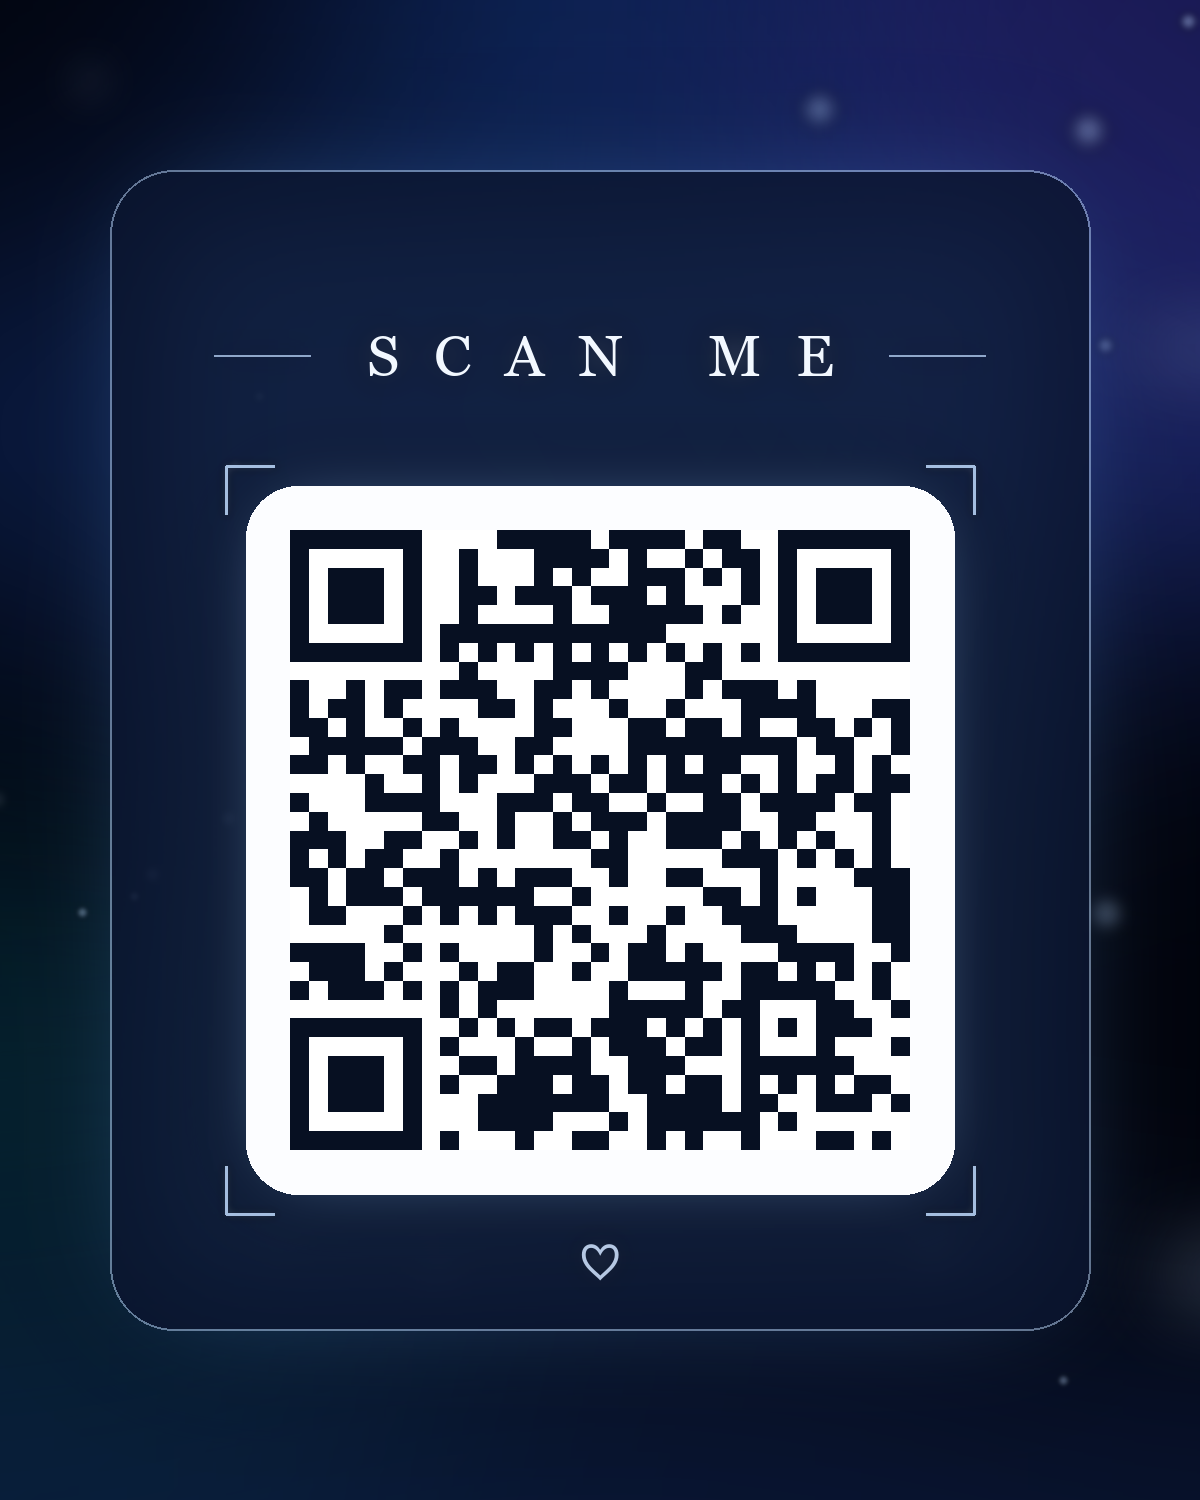
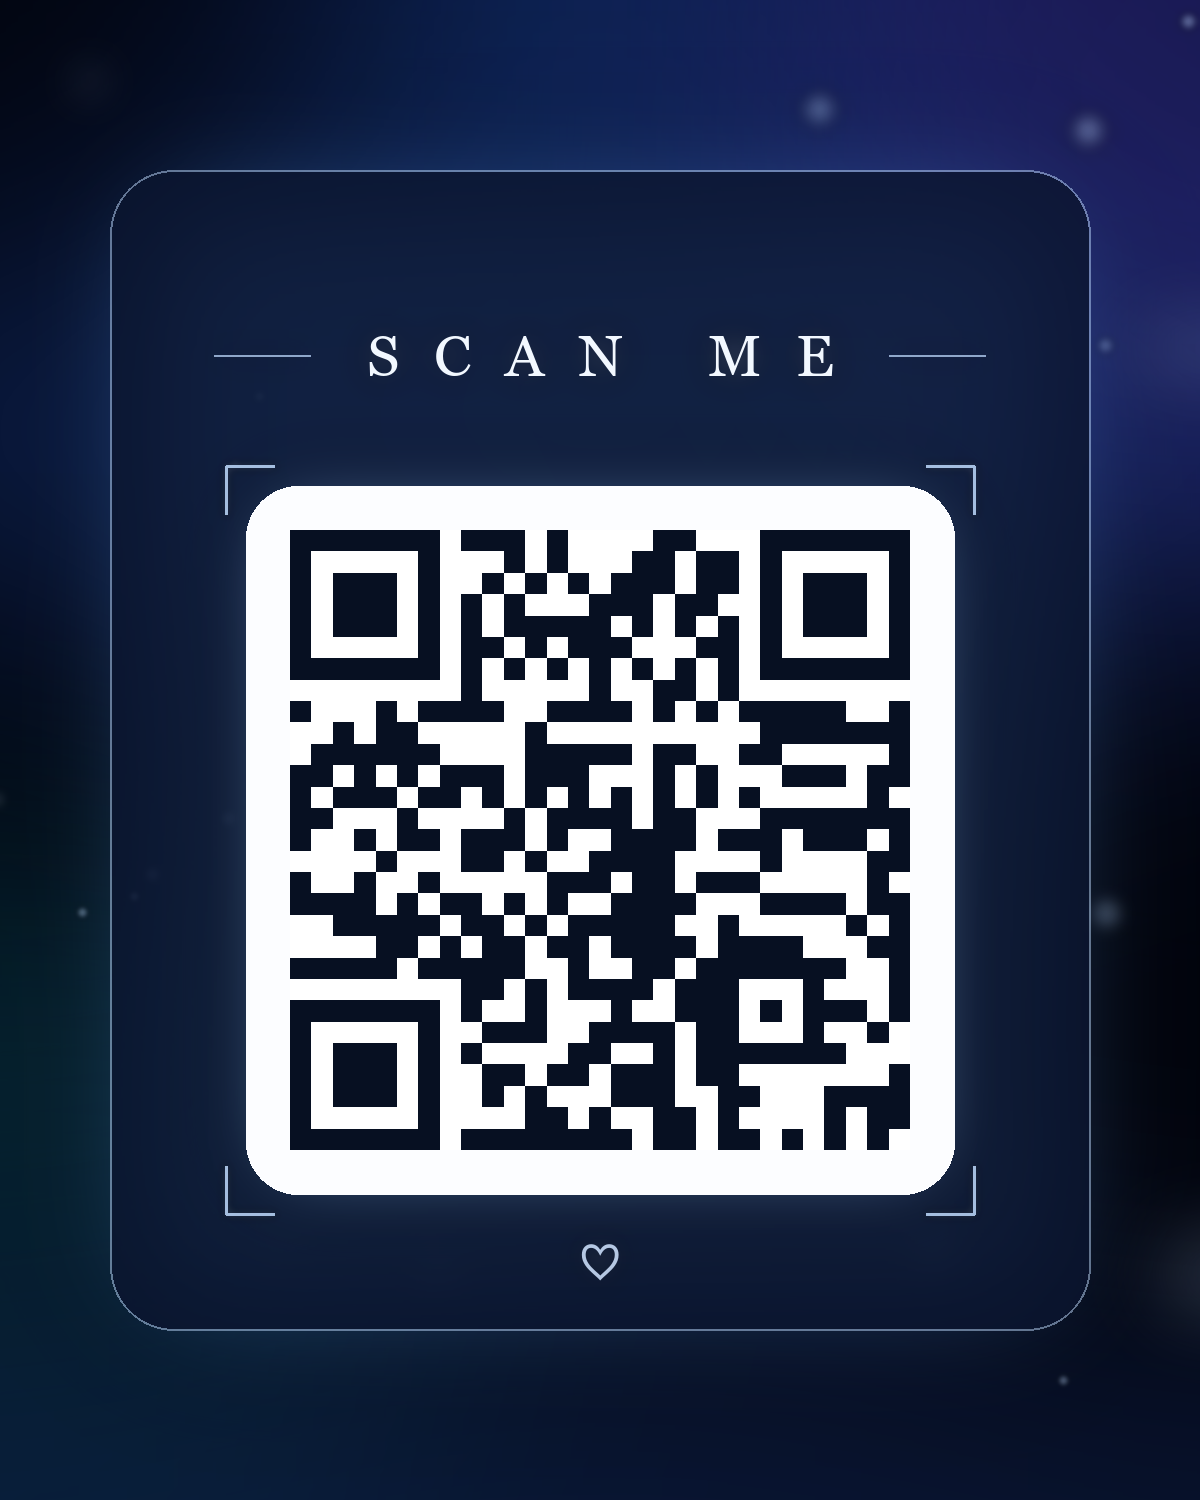
Point everything at the Netlify URL
The site now lives at https://magical-heart.netlify.app/ (GitHub Pages stays up
as a mirror). tools_qr_card.py becomes tools_qr.py and regenerates the whole set
from one URL constant: the plain QR, the printable card, and the QR embedded in
share.html together with the card's link.

Changed region(s): [[0.2158, 0.3373, 0.7708, 0.7667]]

diff --git a/share.html b/share.html
@@ -231,7 +231,7 @@
     <span class="orb" style="--s:22px;--x:19%;--y:57%;--o:0.40;--dur:12.6s;--delay:-5.0s;--dx:5px"></span>
     <span class="orb" style="--s:44px;--x:31%;--y:21%;--o:0.13;--dur:11.0s;--delay:-7.9s;--dx:-39px"></span>
 
-  <a class="card" href="https://frankjakrapan.github.io/magical-heart/">
+  <a class="card" href="https://magical-heart.netlify.app/">
     <h1 class="title">Scan me</h1>
 
     <div class="qr">
@@ -239,8 +239,8 @@
       <span class="corner tr"></span>
       <span class="corner bl"></span>
       <span class="corner br"></span>
-      <svg viewBox="0 0 37 37" xmlns="http://www.w3.org/2000/svg" shape-rendering="crispEdges">
-        <path d="M2,2H3V3H2zM3,2H4V3H3zM4,2H5V3H4zM5,2H6V3H5zM6,2H7V3H6zM7,2H8V3H7zM8,2H9V3H8zM13,2H14V3H13zM14,2H15V3H14zM15,2H16V3H15zM16,2H17V3H16zM17,2H18V3H17zM19,2H20V3H19zM20,2H21V3H20zM21,2H22V3H21zM22,2H23V3H22zM24,2H25V3H24zM25,2H26V3H25zM28,2H29V3H28zM29,2H30V3H29zM30,2H31V3H30zM31,2H32V3H31zM32,2H33V3H32zM33,2H34V3H33zM34,2H35V3H34zM2,3H3V4H2zM8,3H9V4H8zM11,3H12V4H11zM15,3H16V4H15zM16,3H17V4H16zM17,3H18V4H17zM18,3H19V4H18zM20,3H21V4H20zM23,3H24V4H23zM25,3H26V4H25zM26,3H27V4H26zM28,3H29V4H28zM34,3H35V4H34zM2,4H3V5H2zM4,4H5V5H4zM5,4H6V5H5zM6,4H7V5H6zM8,4H9V5H8zM11,4H12V5H11zM15,4H16V5H15zM17,4H18V5H17zM20,4H21V5H20zM21,4H22V5H21zM22,4H23V5H22zM24,4H25V5H24zM26,4H27V5H26zM28,4H29V5H28zM30,4H31V5H30zM31,4H32V5H31zM32,4H33V5H32zM34,4H35V5H34zM2,5H3V6H2zM4,5H5V6H4zM5,5H6V6H5zM6,5H7V6H6zM8,5H9V6H8zM11,5H12V6H11zM12,5H13V6H12zM14,5H15V6H14zM15,5H16V6H15zM16,5H17V6H16zM18,5H19V6H18zM19,5H20V6H19zM20,5H21V6H20zM22,5H23V6H22zM26,5H27V6H26zM28,5H29V6H28zM30,5H31V6H30zM31,5H32V6H31zM32,5H33V6H32zM34,5H35V6H34zM2,6H3V7H2zM4,6H5V7H4zM5,6H6V7H5zM6,6H7V7H6zM8,6H9V7H8zM11,6H12V7H11zM16,6H17V7H16zM19,6H20V7H19zM20,6H21V7H20zM21,6H22V7H21zM22,6H23V7H22zM23,6H24V7H23zM25,6H26V7H25zM28,6H29V7H28zM30,6H31V7H30zM31,6H32V7H31zM32,6H33V7H32zM34,6H35V7H34zM2,7H3V8H2zM8,7H9V8H8zM10,7H11V8H10zM11,7H12V8H11zM12,7H13V8H12zM13,7H14V8H13zM14,7H15V8H14zM15,7H16V8H15zM16,7H17V8H16zM17,7H18V8H17zM18,7H19V8H18zM19,7H20V8H19zM20,7H21V8H20zM21,7H22V8H21zM28,7H29V8H28zM34,7H35V8H34zM2,8H3V9H2zM3,8H4V9H3zM4,8H5V9H4zM5,8H6V9H5zM6,8H7V9H6zM7,8H8V9H7zM8,8H9V9H8zM10,8H11V9H10zM12,8H13V9H12zM14,8H15V9H14zM16,8H17V9H16zM18,8H19V9H18zM20,8H21V9H20zM22,8H23V9H22zM24,8H25V9H24zM26,8H27V9H26zM28,8H29V9H28zM29,8H30V9H29zM30,8H31V9H30zM31,8H32V9H31zM32,8H33V9H32zM33,8H34V9H33zM34,8H35V9H34zM11,9H12V10H11zM16,9H17V10H16zM17,9H18V10H17zM18,9H19V10H18zM19,9H20V10H19zM23,9H24V10H23zM24,9H25V10H24zM2,10H3V11H2zM5,10H6V11H5zM7,10H8V11H7zM8,10H9V11H8zM10,10H11V11H10zM11,10H12V11H11zM12,10H13V11H12zM15,10H16V11H15zM16,10H17V11H16zM18,10H19V11H18zM23,10H24V11H23zM25,10H26V11H25zM26,10H27V11H26zM27,10H28V11H27zM29,10H30V11H29zM2,11H3V12H2zM4,11H5V12H4zM5,11H6V12H5zM7,11H8V12H7zM12,11H13V12H12zM13,11H14V12H13zM15,11H16V12H15zM19,11H20V12H19zM22,11H23V12H22zM26,11H27V12H26zM27,11H28V12H27zM28,11H29V12H28zM29,11H30V12H29zM33,11H34V12H33zM34,11H35V12H34zM2,12H3V13H2zM3,12H4V13H3zM5,12H6V13H5zM8,12H9V13H8zM10,12H11V13H10zM15,12H16V13H15zM16,12H17V13H16zM20,12H21V13H20zM21,12H22V13H21zM23,12H24V13H23zM24,12H25V13H24zM26,12H27V13H26zM29,12H30V13H29zM30,12H31V13H30zM32,12H33V13H32zM34,12H35V13H34zM3,13H4V14H3zM4,13H5V14H4zM5,13H6V14H5zM6,13H7V14H6zM7,13H8V14H7zM9,13H10V14H9zM10,13H11V14H10zM11,13H12V14H11zM14,13H15V14H14zM15,13H16V14H15zM20,13H21V14H20zM21,13H22V14H21zM22,13H23V14H22zM23,13H24V14H23zM24,13H25V14H24zM25,13H26V14H25zM26,13H27V14H26zM27,13H28V14H27zM28,13H29V14H28zM30,13H31V14H30zM31,13H32V14H31zM34,13H35V14H34zM2,14H3V15H2zM3,14H4V15H3zM5,14H6V15H5zM8,14H9V15H8zM9,14H10V15H9zM11,14H12V15H11zM12,14H13V15H12zM14,14H15V15H14zM16,14H17V15H16zM18,14H19V15H18zM20,14H21V15H20zM22,14H23V15H22zM24,14H25V15H24zM25,14H26V15H25zM28,14H29V15H28zM31,14H32V15H31zM33,14H34V15H33zM6,15H7V16H6zM9,15H10V16H9zM11,15H12V16H11zM15,15H16V16H15zM16,15H17V16H16zM17,15H18V16H17zM19,15H20V16H19zM20,15H21V16H20zM22,15H23V16H22zM23,15H24V16H23zM24,15H25V16H24zM26,15H27V16H26zM28,15H29V16H28zM30,15H31V16H30zM31,15H32V16H31zM33,15H34V16H33zM34,15H35V16H34zM2,16H3V17H2zM6,16H7V17H6zM7,16H8V17H7zM8,16H9V17H8zM9,16H10V17H9zM13,16H14V17H13zM14,16H15V17H14zM15,16H16V17H15zM17,16H18V17H17zM18,16H19V17H18zM21,16H22V17H21zM24,16H25V17H24zM25,16H26V17H25zM27,16H28V17H27zM28,16H29V17H28zM29,16H30V17H29zM30,16H31V17H30zM32,16H33V17H32zM33,16H34V17H33zM3,17H4V18H3zM9,17H10V18H9zM10,17H11V18H10zM13,17H14V18H13zM16,17H17V18H16zM18,17H19V18H18zM19,17H20V18H19zM20,17H21V18H20zM22,17H23V18H22zM23,17H24V18H23zM24,17H25V18H24zM25,17H26V18H25zM28,17H29V18H28zM29,17H30V18H29zM33,17H34V18H33zM2,18H3V19H2zM3,18H4V19H3zM4,18H5V19H4zM7,18H8V19H7zM8,18H9V19H8zM11,18H12V19H11zM13,18H14V19H13zM16,18H17V19H16zM17,18H18V19H17zM19,18H20V19H19zM22,18H23V19H22zM23,18H24V19H23zM24,18H25V19H24zM26,18H27V19H26zM28,18H29V19H28zM30,18H31V19H30zM33,18H34V19H33zM2,19H3V20H2zM4,19H5V20H4zM6,19H7V20H6zM7,19H8V20H7zM10,19H11V20H10zM18,19H19V20H18zM19,19H20V20H19zM25,19H26V20H25zM26,19H27V20H26zM27,19H28V20H27zM29,19H30V20H29zM31,19H32V20H31zM33,19H34V20H33zM2,20H3V21H2zM3,20H4V21H3zM5,20H6V21H5zM6,20H7V21H6zM8,20H9V21H8zM9,20H10V21H9zM10,20H11V21H10zM12,20H13V21H12zM14,20H15V21H14zM15,20H16V21H15zM16,20H17V21H16zM19,20H20V21H19zM22,20H23V21H22zM23,20H24V21H23zM27,20H28V21H27zM32,20H33V21H32zM33,20H34V21H33zM34,20H35V21H34zM3,21H4V22H3zM5,21H6V22H5zM6,21H7V22H6zM7,21H8V22H7zM9,21H10V22H9zM10,21H11V22H10zM11,21H12V22H11zM12,21H13V22H12zM13,21H14V22H13zM14,21H15V22H14zM17,21H18V22H17zM24,21H25V22H24zM25,21H26V22H25zM27,21H28V22H27zM29,21H30V22H29zM33,21H34V22H33zM34,21H35V22H34zM3,22H4V23H3zM4,22H5V23H4zM8,22H9V23H8zM10,22H11V23H10zM12,22H13V23H12zM14,22H15V23H14zM15,22H16V23H15zM16,22H17V23H16zM19,22H20V23H19zM22,22H23V23H22zM25,22H26V23H25zM26,22H27V23H26zM27,22H28V23H27zM33,22H34V23H33zM34,22H35V23H34zM7,23H8V24H7zM15,23H16V24H15zM17,23H18V24H17zM21,23H22V24H21zM26,23H27V24H26zM27,23H28V24H27zM28,23H29V24H28zM33,23H34V24H33zM34,23H35V24H34zM2,24H3V25H2zM3,24H4V25H3zM4,24H5V25H4zM5,24H6V25H5zM8,24H9V25H8zM10,24H11V25H10zM15,24H16V25H15zM18,24H19V25H18zM20,24H21V25H20zM21,24H22V25H21zM23,24H24V25H23zM28,24H29V25H28zM29,24H30V25H29zM30,24H31V25H30zM31,24H32V25H31zM34,24H35V25H34zM3,25H4V26H3zM4,25H5V26H4zM5,25H6V26H5zM7,25H8V26H7zM11,25H12V26H11zM13,25H14V26H13zM14,25H15V26H14zM17,25H18V26H17zM20,25H21V26H20zM21,25H22V26H21zM22,25H23V26H22zM23,25H24V26H23zM24,25H25V26H24zM26,25H27V26H26zM27,25H28V26H27zM29,25H30V26H29zM31,25H32V26H31zM33,25H34V26H33zM2,26H3V27H2zM4,26H5V27H4zM5,26H6V27H5zM6,26H7V27H6zM8,26H9V27H8zM10,26H11V27H10zM12,26H13V27H12zM13,26H14V27H13zM14,26H15V27H14zM19,26H20V27H19zM23,26H24V27H23zM26,26H27V27H26zM27,26H28V27H27zM28,26H29V27H28zM29,26H30V27H29zM30,26H31V27H30zM33,26H34V27H33zM10,27H11V28H10zM12,27H13V28H12zM19,27H20V28H19zM20,27H21V28H20zM21,27H22V28H21zM22,27H23V28H22zM23,27H24V28H23zM25,27H26V28H25zM26,27H27V28H26zM30,27H31V28H30zM31,27H32V28H31zM34,27H35V28H34zM2,28H3V29H2zM3,28H4V29H3zM4,28H5V29H4zM5,28H6V29H5zM6,28H7V29H6zM7,28H8V29H7zM8,28H9V29H8zM11,28H12V29H11zM13,28H14V29H13zM15,28H16V29H15zM16,28H17V29H16zM18,28H19V29H18zM19,28H20V29H19zM20,28H21V29H20zM22,28H23V29H22zM24,28H25V29H24zM26,28H27V29H26zM28,28H29V29H28zM30,28H31V29H30zM31,28H32V29H31zM32,28H33V29H32zM2,29H3V30H2zM8,29H9V30H8zM10,29H11V30H10zM14,29H15V30H14zM17,29H18V30H17zM19,29H20V30H19zM20,29H21V30H20zM21,29H22V30H21zM23,29H24V30H23zM24,29H25V30H24zM26,29H27V30H26zM30,29H31V30H30zM34,29H35V30H34zM2,30H3V31H2zM4,30H5V31H4zM5,30H6V31H5zM6,30H7V31H6zM8,30H9V31H8zM11,30H12V31H11zM12,30H13V31H12zM14,30H15V31H14zM15,30H16V31H15zM16,30H17V31H16zM17,30H18V31H17zM20,30H21V31H20zM21,30H22V31H21zM22,30H23V31H22zM26,30H27V31H26zM27,30H28V31H27zM28,30H29V31H28zM29,30H30V31H29zM30,30H31V31H30zM31,30H32V31H31zM2,31H3V32H2zM4,31H5V32H4zM5,31H6V32H5zM6,31H7V32H6zM8,31H9V32H8zM10,31H11V32H10zM13,31H14V32H13zM14,31H15V32H14zM15,31H16V32H15zM17,31H18V32H17zM18,31H19V32H18zM20,31H21V32H20zM21,31H22V32H21zM23,31H24V32H23zM24,31H25V32H24zM26,31H27V32H26zM28,31H29V32H28zM30,31H31V32H30zM32,31H33V32H32zM33,31H34V32H33zM2,32H3V33H2zM4,32H5V33H4zM5,32H6V33H5zM6,32H7V33H6zM8,32H9V33H8zM12,32H13V33H12zM13,32H14V33H13zM14,32H15V33H14zM15,32H16V33H15zM16,32H17V33H16zM17,32H18V33H17zM18,32H19V33H18zM21,32H22V33H21zM22,32H23V33H22zM23,32H24V33H23zM24,32H25V33H24zM26,32H27V33H26zM27,32H28V33H27zM30,32H31V33H30zM31,32H32V33H31zM32,32H33V33H32zM34,32H35V33H34zM2,33H3V34H2zM8,33H9V34H8zM12,33H13V34H12zM13,33H14V34H13zM14,33H15V34H14zM15,33H16V34H15zM19,33H20V34H19zM21,33H22V34H21zM22,33H23V34H22zM23,33H24V34H23zM24,33H25V34H24zM25,33H26V34H25zM26,33H27V34H26zM28,33H29V34H28zM2,34H3V35H2zM3,34H4V35H3zM4,34H5V35H4zM5,34H6V35H5zM6,34H7V35H6zM7,34H8V35H7zM8,34H9V35H8zM10,34H11V35H10zM14,34H15V35H14zM17,34H18V35H17zM18,34H19V35H18zM21,34H22V35H21zM23,34H24V35H23zM26,34H27V35H26zM30,34H31V35H30zM31,34H32V35H31zM33,34H34V35H33z"/>
+      <svg viewBox="0 0 33 33" xmlns="http://www.w3.org/2000/svg" shape-rendering="crispEdges">
+        <path d="M2,2H3V3H2zM3,2H4V3H3zM4,2H5V3H4zM5,2H6V3H5zM6,2H7V3H6zM7,2H8V3H7zM8,2H9V3H8zM10,2H11V3H10zM11,2H12V3H11zM12,2H13V3H12zM14,2H15V3H14zM19,2H20V3H19zM20,2H21V3H20zM24,2H25V3H24zM25,2H26V3H25zM26,2H27V3H26zM27,2H28V3H27zM28,2H29V3H28zM29,2H30V3H29zM30,2H31V3H30zM2,3H3V4H2zM8,3H9V4H8zM12,3H13V4H12zM14,3H15V4H14zM18,3H19V4H18zM19,3H20V4H19zM21,3H22V4H21zM22,3H23V4H22zM24,3H25V4H24zM30,3H31V4H30zM2,4H3V5H2zM4,4H5V5H4zM5,4H6V5H5zM6,4H7V5H6zM8,4H9V5H8zM11,4H12V5H11zM13,4H14V5H13zM15,4H16V5H15zM17,4H18V5H17zM18,4H19V5H18zM19,4H20V5H19zM21,4H22V5H21zM22,4H23V5H22zM24,4H25V5H24zM26,4H27V5H26zM27,4H28V5H27zM28,4H29V5H28zM30,4H31V5H30zM2,5H3V6H2zM4,5H5V6H4zM5,5H6V6H5zM6,5H7V6H6zM8,5H9V6H8zM10,5H11V6H10zM12,5H13V6H12zM16,5H17V6H16zM17,5H18V6H17zM18,5H19V6H18zM20,5H21V6H20zM21,5H22V6H21zM24,5H25V6H24zM26,5H27V6H26zM27,5H28V6H27zM28,5H29V6H28zM30,5H31V6H30zM2,6H3V7H2zM4,6H5V7H4zM5,6H6V7H5zM6,6H7V7H6zM8,6H9V7H8zM10,6H11V7H10zM12,6H13V7H12zM13,6H14V7H13zM14,6H15V7H14zM15,6H16V7H15zM16,6H17V7H16zM18,6H19V7H18zM20,6H21V7H20zM22,6H23V7H22zM24,6H25V7H24zM26,6H27V7H26zM27,6H28V7H27zM28,6H29V7H28zM30,6H31V7H30zM2,7H3V8H2zM8,7H9V8H8zM10,7H11V8H10zM11,7H12V8H11zM13,7H14V8H13zM15,7H16V8H15zM16,7H17V8H16zM17,7H18V8H17zM21,7H22V8H21zM22,7H23V8H22zM24,7H25V8H24zM30,7H31V8H30zM2,8H3V9H2zM3,8H4V9H3zM4,8H5V9H4zM5,8H6V9H5zM6,8H7V9H6zM7,8H8V9H7zM8,8H9V9H8zM10,8H11V9H10zM12,8H13V9H12zM14,8H15V9H14zM16,8H17V9H16zM18,8H19V9H18zM20,8H21V9H20zM22,8H23V9H22zM24,8H25V9H24zM25,8H26V9H25zM26,8H27V9H26zM27,8H28V9H27zM28,8H29V9H28zM29,8H30V9H29zM30,8H31V9H30zM10,9H11V10H10zM16,9H17V10H16zM19,9H20V10H19zM20,9H21V10H20zM22,9H23V10H22zM2,10H3V11H2zM6,10H7V11H6zM8,10H9V11H8zM9,10H10V11H9zM10,10H11V11H10zM11,10H12V11H11zM14,10H15V11H14zM15,10H16V11H15zM16,10H17V11H16zM17,10H18V11H17zM19,10H20V11H19zM21,10H22V11H21zM23,10H24V11H23zM24,10H25V11H24zM25,10H26V11H25zM26,10H27V11H26zM27,10H28V11H27zM30,10H31V11H30zM4,11H5V12H4zM6,11H7V12H6zM7,11H8V12H7zM13,11H14V12H13zM24,11H25V12H24zM25,11H26V12H25zM26,11H27V12H26zM27,11H28V12H27zM28,11H29V12H28zM29,11H30V12H29zM30,11H31V12H30zM3,12H4V13H3zM4,12H5V13H4zM5,12H6V13H5zM6,12H7V13H6zM7,12H8V13H7zM8,12H9V13H8zM13,12H14V13H13zM14,12H15V13H14zM15,12H16V13H15zM16,12H17V13H16zM17,12H18V13H17zM19,12H20V13H19zM20,12H21V13H20zM23,12H24V13H23zM24,12H25V13H24zM30,12H31V13H30zM2,13H3V14H2zM3,13H4V14H3zM5,13H6V14H5zM7,13H8V14H7zM9,13H10V14H9zM10,13H11V14H10zM11,13H12V14H11zM13,13H14V14H13zM14,13H15V14H14zM15,13H16V14H15zM19,13H20V14H19zM21,13H22V14H21zM25,13H26V14H25zM26,13H27V14H26zM27,13H28V14H27zM29,13H30V14H29zM30,13H31V14H30zM2,14H3V15H2zM4,14H5V15H4zM5,14H6V15H5zM6,14H7V15H6zM8,14H9V15H8zM9,14H10V15H9zM11,14H12V15H11zM13,14H14V15H13zM15,14H16V15H15zM17,14H18V15H17zM19,14H20V15H19zM21,14H22V15H21zM23,14H24V15H23zM29,14H30V15H29zM2,15H3V16H2zM3,15H4V16H3zM7,15H8V16H7zM12,15H13V16H12zM14,15H15V16H14zM15,15H16V16H15zM16,15H17V16H16zM17,15H18V16H17zM19,15H20V16H19zM20,15H21V16H20zM24,15H25V16H24zM25,15H26V16H25zM26,15H27V16H26zM27,15H28V16H27zM28,15H29V16H28zM29,15H30V16H29zM30,15H31V16H30zM2,16H3V17H2zM5,16H6V17H5zM7,16H8V17H7zM8,16H9V17H8zM10,16H11V17H10zM11,16H12V17H11zM12,16H13V17H12zM14,16H15V17H14zM17,16H18V17H17zM18,16H19V17H18zM19,16H20V17H19zM20,16H21V17H20zM22,16H23V17H22zM23,16H24V17H23zM24,16H25V17H24zM26,16H27V17H26zM27,16H28V17H27zM28,16H29V17H28zM30,16H31V17H30zM6,17H7V18H6zM10,17H11V18H10zM11,17H12V18H11zM13,17H14V18H13zM16,17H17V18H16zM17,17H18V18H17zM18,17H19V18H18zM19,17H20V18H19zM24,17H25V18H24zM29,17H30V18H29zM30,17H31V18H30zM2,18H3V19H2zM5,18H6V19H5zM8,18H9V19H8zM14,18H15V19H14zM15,18H16V19H15zM16,18H17V19H16zM18,18H19V19H18zM19,18H20V19H19zM21,18H22V19H21zM22,18H23V19H22zM23,18H24V19H23zM29,18H30V19H29zM2,19H3V20H2zM3,19H4V20H3zM4,19H5V20H4zM5,19H6V20H5zM7,19H8V20H7zM9,19H10V20H9zM10,19H11V20H10zM12,19H13V20H12zM14,19H15V20H14zM17,19H18V20H17zM18,19H19V20H18zM19,19H20V20H19zM20,19H21V20H20zM24,19H25V20H24zM25,19H26V20H25zM26,19H27V20H26zM27,19H28V20H27zM29,19H30V20H29zM30,19H31V20H30zM4,20H5V21H4zM5,20H6V21H5zM6,20H7V21H6zM7,20H8V21H7zM8,20H9V21H8zM10,20H11V21H10zM11,20H12V21H11zM13,20H14V21H13zM15,20H16V21H15zM16,20H17V21H16zM17,20H18V21H17zM18,20H19V21H18zM19,20H20V21H19zM22,20H23V21H22zM28,20H29V21H28zM30,20H31V21H30zM6,21H7V22H6zM7,21H8V22H7zM9,21H10V22H9zM11,21H12V22H11zM12,21H13V22H12zM14,21H15V22H14zM15,21H16V22H15zM17,21H18V22H17zM18,21H19V22H18zM19,21H20V22H19zM20,21H21V22H20zM22,21H23V22H22zM23,21H24V22H23zM24,21H25V22H24zM25,21H26V22H25zM29,21H30V22H29zM30,21H31V22H30zM2,22H3V23H2zM3,22H4V23H3zM4,22H5V23H4zM5,22H6V23H5zM6,22H7V23H6zM8,22H9V23H8zM9,22H10V23H9zM10,22H11V23H10zM11,22H12V23H11zM12,22H13V23H12zM15,22H16V23H15zM18,22H19V23H18zM19,22H20V23H19zM21,22H22V23H21zM22,22H23V23H22zM23,22H24V23H23zM24,22H25V23H24zM25,22H26V23H25zM26,22H27V23H26zM27,22H28V23H27zM30,22H31V23H30zM10,23H11V24H10zM11,23H12V24H11zM13,23H14V24H13zM15,23H16V24H15zM16,23H17V24H16zM17,23H18V24H17zM18,23H19V24H18zM20,23H21V24H20zM21,23H22V24H21zM22,23H23V24H22zM26,23H27V24H26zM30,23H31V24H30zM2,24H3V25H2zM3,24H4V25H3zM4,24H5V25H4zM5,24H6V25H5zM6,24H7V25H6zM7,24H8V25H7zM8,24H9V25H8zM10,24H11V25H10zM13,24H14V25H13zM17,24H18V25H17zM20,24H21V25H20zM21,24H22V25H21zM22,24H23V25H22zM24,24H25V25H24zM26,24H27V25H26zM27,24H28V25H27zM28,24H29V25H28zM30,24H31V25H30zM2,25H3V26H2zM8,25H9V26H8zM11,25H12V26H11zM12,25H13V26H12zM13,25H14V26H13zM16,25H17V26H16zM17,25H18V26H17zM18,25H19V26H18zM19,25H20V26H19zM21,25H22V26H21zM22,25H23V26H22zM26,25H27V26H26zM29,25H30V26H29zM2,26H3V27H2zM4,26H5V27H4zM5,26H6V27H5zM6,26H7V27H6zM8,26H9V27H8zM10,26H11V27H10zM15,26H16V27H15zM16,26H17V27H16zM19,26H20V27H19zM21,26H22V27H21zM22,26H23V27H22zM23,26H24V27H23zM24,26H25V27H24zM25,26H26V27H25zM26,26H27V27H26zM27,26H28V27H27zM2,27H3V28H2zM4,27H5V28H4zM5,27H6V28H5zM6,27H7V28H6zM8,27H9V28H8zM11,27H12V28H11zM12,27H13V28H12zM14,27H15V28H14zM15,27H16V28H15zM17,27H18V28H17zM18,27H19V28H18zM19,27H20V28H19zM21,27H22V28H21zM22,27H23V28H22zM30,27H31V28H30zM2,28H3V29H2zM4,28H5V29H4zM5,28H6V29H5zM6,28H7V29H6zM8,28H9V29H8zM11,28H12V29H11zM13,28H14V29H13zM17,28H18V29H17zM18,28H19V29H18zM19,28H20V29H19zM22,28H23V29H22zM23,28H24V29H23zM27,28H28V29H27zM28,28H29V29H28zM29,28H30V29H29zM30,28H31V29H30zM2,29H3V30H2zM8,29H9V30H8zM13,29H14V30H13zM14,29H15V30H14zM16,29H17V30H16zM19,29H20V30H19zM20,29H21V30H20zM22,29H23V30H22zM27,29H28V30H27zM29,29H30V30H29zM30,29H31V30H30zM2,30H3V31H2zM3,30H4V31H3zM4,30H5V31H4zM5,30H6V31H5zM6,30H7V31H6zM7,30H8V31H7zM8,30H9V31H8zM10,30H11V31H10zM11,30H12V31H11zM12,30H13V31H12zM13,30H14V31H13zM14,30H15V31H14zM15,30H16V31H15zM16,30H17V31H16zM17,30H18V31H17zM19,30H20V31H19zM20,30H21V31H20zM22,30H23V31H22zM23,30H24V31H23zM25,30H26V31H25zM27,30H28V31H27zM29,30H30V31H29z"/>
       </svg>
     </div>
 

diff --git a/tools_qr.py b/tools_qr.py
@@ -1,11 +1,16 @@
-"""สร้างการ์ด QR เป็นไฟล์ PNG ความละเอียดสูง หน้าตาเดียวกับ share.html"""
+"""สร้าง QR ทั้งชุดจาก URL เดียว: ไฟล์ QR ล้วน, การ์ด PNG และ QR ที่ฝังใน share.html
+
+แก้ค่า URL ด้านล่างแล้วรัน `python tools_qr.py` เมื่อไหร่ที่ที่อยู่เว็บเปลี่ยน
+"""
 import random
 from PIL import Image, ImageDraw, ImageFilter, ImageFont
 import qrcode
 from qrcode.constants import ERROR_CORRECT_M
 
-URL = "https://frankjakrapan.github.io/magical-heart/"
-OUT = "assets/qr-card.png"
+URL = "https://magical-heart.netlify.app/"
+CARD_OUT = "assets/qr-card.png"
+PLAIN_OUT = "assets/qr.png"
+SHARE_PAGE = "share.html"
 W, H = 1200, 1500
 random.seed(11)
 
@@ -111,5 +116,32 @@ font_heart = ImageFont.truetype("C:/Windows/Fonts/seguisym.ttf", 62)
 with_glow(lambda d: d.text((W / 2, 1258), "\u2661", font=font_heart,
                            fill=(207, 227, 255, 220), anchor="mm"), blur=12)
 
-base.convert('RGB').save(OUT, quality=95)
-print("saved", OUT, base.size)
+base.convert('RGB').save(CARD_OUT, quality=95)
+print("saved", CARD_OUT, base.size)
+
+
+# ---------- QR ล้วนไว้ใช้ที่อื่น ----------
+plain = qrcode.QRCode(error_correction=ERROR_CORRECT_M, box_size=32, border=3)
+plain.add_data(URL)
+plain.make(fit=True)
+plain.make_image(fill_color="#0b1220", back_color="white").save(PLAIN_OUT)
+print("saved", PLAIN_OUT)
+
+
+# ---------- อัปเดต QR + ลิงก์ในหน้า share ----------
+import re
+from qrcode.image.svg import SvgPathImage
+
+svg = qrcode.QRCode(error_correction=ERROR_CORRECT_M, box_size=10, border=2)
+svg.add_data(URL)
+svg.make(fit=True)
+raw = svg.make_image(image_factory=SvgPathImage).to_string().decode()
+view_box = re.search(r'viewBox="([^"]+)"', raw).group(1)
+path = re.search(r'<path[^>]*\sd="([^"]+)"', raw).group(1)
+
+page = open(SHARE_PAGE, encoding="utf-8").read()
+page = re.sub(r'(<svg viewBox=")[^"]+(")', lambda m: m.group(1) + view_box + m.group(2), page)
+page = re.sub(r'(<path d=")[^"]+(")', lambda m: m.group(1) + path + m.group(2), page)
+page = re.sub(r'(<a class="card" href=")[^"]+(")', lambda m: m.group(1) + URL + m.group(2), page)
+open(SHARE_PAGE, "w", encoding="utf-8").write(page)
+print("updated", SHARE_PAGE)

diff --git a/README.md b/README.md
@@ -37,16 +37,16 @@
 
 ## เผยแพร่
 
-หน้าเว็บอยู่บน GitHub Pages: **https://frankjakrapan.github.io/magical-heart/**
+หน้าเว็บ: **https://magical-heart.netlify.app/** (Netlify ต่อกับ repo นี้ deploy อัตโนมัติทุกครั้งที่ push)
+สำรองที่ GitHub Pages: https://frankjakrapan.github.io/magical-heart/
 
 - `share.html` — หน้าโชว์ QR (ฝัง QR เป็น inline SVG ไม่ต้องพึ่งเน็ตนอกจากฟอนต์)
-  เปิดที่ https://frankjakrapan.github.io/magical-heart/share.html
+  เปิดที่ https://magical-heart.netlify.app/share.html
 - `assets/qr-card.png` — การ์ด QR 1200x1500 หน้าตาเดียวกับหน้าเว็บ เอาไว้ส่งหรือปริ้นได้เลย
 - `assets/qr.png` — QR ล้วน 1248px (สแกนง่ายสุด ใช้ตอนต้องการเอาไปวางในงานอื่น)
-- `tools_qr_card.py` — สคริปต์สร้างการ์ด (`python tools_qr_card.py`) ถ้าเปลี่ยน URL ให้แก้ตัวแปร `URL` แล้วรันใหม่
+- `tools_qr.py` — สร้าง QR ทั้งชุด (ไฟล์ล้วน + การ์ด + QR ที่ฝังใน `share.html`) ถ้าย้าย URL ให้แก้ตัวแปร `URL` แล้วรัน `python tools_qr.py` ครั้งเดียวจบ
 
-อัปเดตเว็บ: commit แล้ว `git push` — Pages จะ build ใหม่เองภายใน ~1 นาที
-(ถ้าเปลี่ยน URL ต้องสร้าง QR ใหม่ด้วย `qrcode` ใน Python)
+อัปเดตเว็บ: commit แล้ว `git push` — Netlify และ GitHub Pages จะ build ใหม่เองภายใน ~1 นาที
 
 ## รัน
 
